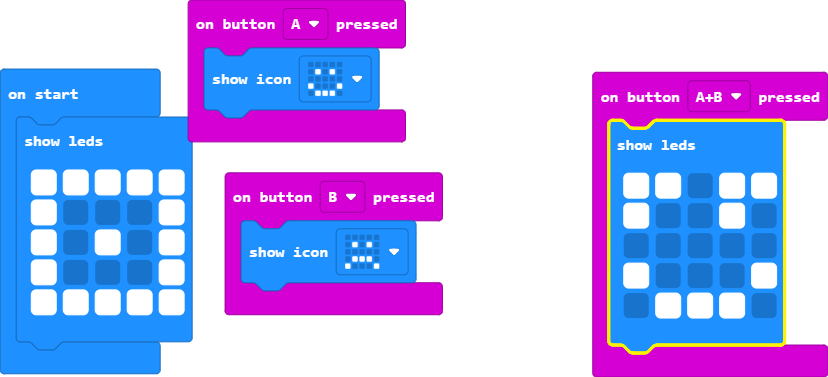
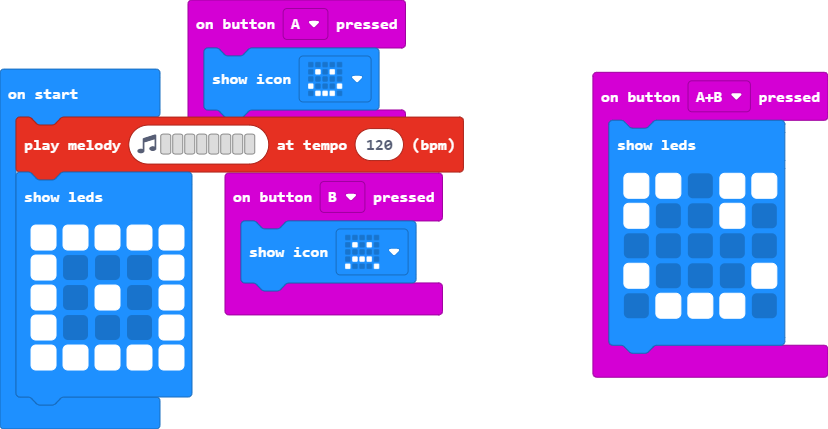
Update main.blocks, main.ts

diff --git a/main.ts b/main.ts
@@ -13,6 +13,7 @@ input.onButtonPressed(Button.AB, function () {
 input.onButtonPressed(Button.B, function () {
     basic.showIcon(IconNames.Sad)
 })
+music.playMelody("- - - - - - - - ", 120)
 basic.showLeds(`
     # # # # #
     # . . . #
